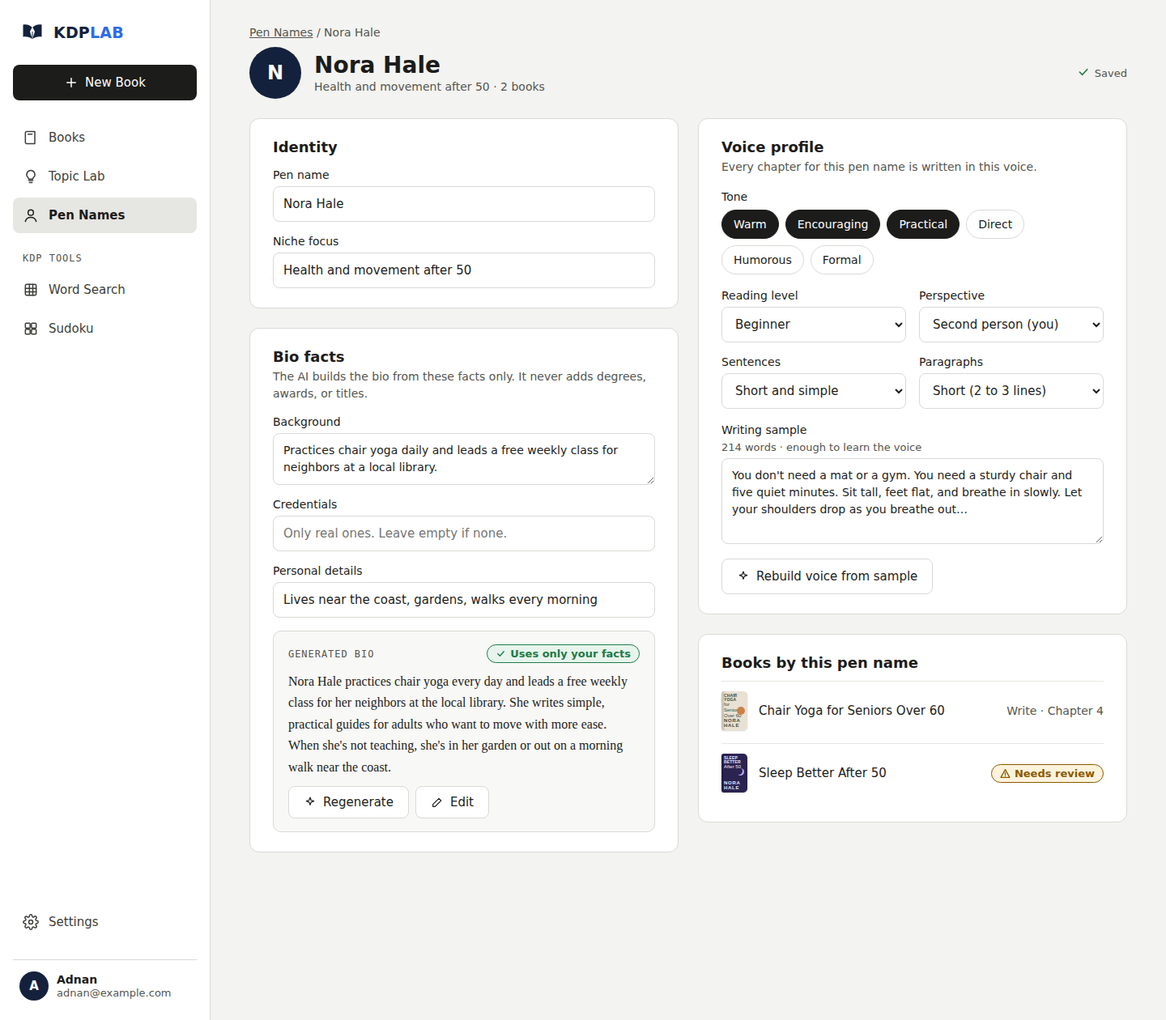
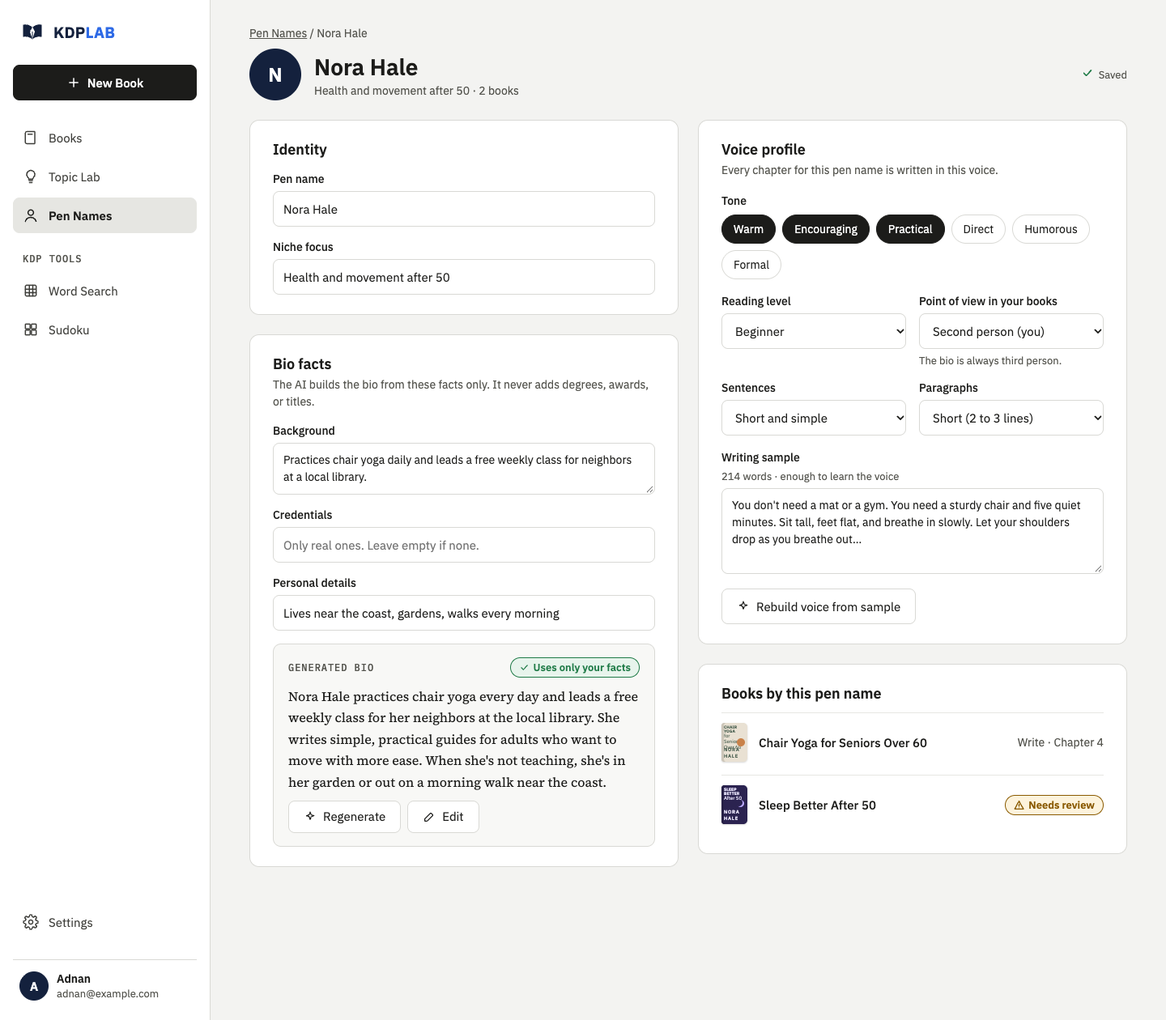
E12 Part 2: pen name point of view label, "ends mid-sentence" in Checks and Export
H2: the voice field is "Point of view in your books" with the help line
"The bio is always third person." under the select (aria-describedby);
design screen 12 has the same text (PNG shot again with the design fonts).
M9: the Checks tab gets an "ending" row (warning, counted, Show selects the
cut piece) from kdpTextChecks.ending(), the same rule as the server's
endsMidSentence. The Export dialog lists the sections in the file that end
mid-sentence as a warning like Needs review: it never blocks, needs no tick.
Tests: helpers 135; browser write 677 (+6), export 72 (+9, new t-cut),
new pen suite 9; every other suite unchanged and green.

diff --git a/design/screens/12-pen-name-detail.html b/design/screens/12-pen-name-detail.html
@@ -43,7 +43,7 @@ a{color:#1C1C1A}a:hover{color:#000000}
 <div style="display: flex; flex-direction: column; gap: 24px">
 <section style="background: #FFFFFF; border: 1px solid #D9D9D5; border-radius: 12px; padding: 24px 28px; display: flex; flex-direction: column; gap: 18px"><div style="display: flex; flex-direction: column; gap: 4px"><h2 style="margin: 0; font-size: 18px; font-weight: 600">Voice profile</h2><p style="margin: 0; font-size: 14px; line-height: 1.5; color: #55554F">Every chapter for this pen name is written in this voice.</p></div>
 <div style="display: flex; flex-direction: column; gap: 8px"><span style="font-size: 14px; font-weight: 500">Tone</span><div style="display: flex; flex-wrap: wrap; gap: 8px"><button aria-pressed="true" style="height: 36px; padding: 0 14px; border-radius: 999px; font-family: inherit; font-size: 14px; background: #1C1C1A; color: #FFFFFF; border: 1px solid #1C1C1A">Warm</button><button aria-pressed="true" style="height: 36px; padding: 0 14px; border-radius: 999px; font-family: inherit; font-size: 14px; background: #1C1C1A; color: #FFFFFF; border: 1px solid #1C1C1A">Encouraging</button><button aria-pressed="true" style="height: 36px; padding: 0 14px; border-radius: 999px; font-family: inherit; font-size: 14px; background: #1C1C1A; color: #FFFFFF; border: 1px solid #1C1C1A">Practical</button><button aria-pressed="false" style="height: 36px; padding: 0 14px; border-radius: 999px; font-family: inherit; font-size: 14px; background: #FFFFFF; color: #1C1C1A; border: 1px solid #D9D9D5">Direct</button><button aria-pressed="false" style="height: 36px; padding: 0 14px; border-radius: 999px; font-family: inherit; font-size: 14px; background: #FFFFFF; color: #1C1C1A; border: 1px solid #D9D9D5">Humorous</button><button aria-pressed="false" style="height: 36px; padding: 0 14px; border-radius: 999px; font-family: inherit; font-size: 14px; background: #FFFFFF; color: #1C1C1A; border: 1px solid #D9D9D5">Formal</button></div></div>
-<div style="display: grid; grid-template-columns: repeat(2, minmax(0, 1fr)); gap: 16px"><label style="display: flex; flex-direction: column; gap: 6px; font-size: 14px; font-weight: 500">Reading level<select style="height: 44px; box-sizing: border-box; padding: 0 12px; border: 1px solid #D9D9D5; border-radius: 8px; font-family: inherit; font-size: 15px; background: #FFFFFF; color: #1C1C1A; width: 100%"><option>Beginner</option><option>General</option><option>Advanced</option></select></label><label style="display: flex; flex-direction: column; gap: 6px; font-size: 14px; font-weight: 500">Perspective<select style="height: 44px; box-sizing: border-box; padding: 0 12px; border: 1px solid #D9D9D5; border-radius: 8px; font-family: inherit; font-size: 15px; background: #FFFFFF; color: #1C1C1A; width: 100%"><option>Second person (you)</option><option>First person (I)</option><option>Third person</option></select></label><label style="display: flex; flex-direction: column; gap: 6px; font-size: 14px; font-weight: 500">Sentences<select style="height: 44px; box-sizing: border-box; padding: 0 12px; border: 1px solid #D9D9D5; border-radius: 8px; font-family: inherit; font-size: 15px; background: #FFFFFF; color: #1C1C1A; width: 100%"><option>Short and simple</option><option>Mixed</option><option>Long and detailed</option></select></label><label style="display: flex; flex-direction: column; gap: 6px; font-size: 14px; font-weight: 500">Paragraphs<select style="height: 44px; box-sizing: border-box; padding: 0 12px; border: 1px solid #D9D9D5; border-radius: 8px; font-family: inherit; font-size: 15px; background: #FFFFFF; color: #1C1C1A; width: 100%"><option>Short (2 to 3 lines)</option><option>Medium</option></select></label></div>
+<div style="display: grid; grid-template-columns: repeat(2, minmax(0, 1fr)); gap: 16px"><label style="display: flex; flex-direction: column; gap: 6px; font-size: 14px; font-weight: 500">Reading level<select style="height: 44px; box-sizing: border-box; padding: 0 12px; border: 1px solid #D9D9D5; border-radius: 8px; font-family: inherit; font-size: 15px; background: #FFFFFF; color: #1C1C1A; width: 100%"><option>Beginner</option><option>General</option><option>Advanced</option></select></label><label style="display: flex; flex-direction: column; gap: 6px; font-size: 14px; font-weight: 500">Point of view in your books<select style="height: 44px; box-sizing: border-box; padding: 0 12px; border: 1px solid #D9D9D5; border-radius: 8px; font-family: inherit; font-size: 15px; background: #FFFFFF; color: #1C1C1A; width: 100%"><option>Second person (you)</option><option>First person (I)</option><option>Third person</option></select><span style="font-size: 13px; font-weight: 400; color: #55554F">The bio is always third person.</span></label><label style="display: flex; flex-direction: column; gap: 6px; font-size: 14px; font-weight: 500">Sentences<select style="height: 44px; box-sizing: border-box; padding: 0 12px; border: 1px solid #D9D9D5; border-radius: 8px; font-family: inherit; font-size: 15px; background: #FFFFFF; color: #1C1C1A; width: 100%"><option>Short and simple</option><option>Mixed</option><option>Long and detailed</option></select></label><label style="display: flex; flex-direction: column; gap: 6px; font-size: 14px; font-weight: 500">Paragraphs<select style="height: 44px; box-sizing: border-box; padding: 0 12px; border: 1px solid #D9D9D5; border-radius: 8px; font-family: inherit; font-size: 15px; background: #FFFFFF; color: #1C1C1A; width: 100%"><option>Short (2 to 3 lines)</option><option>Medium</option></select></label></div>
 <label style="display: flex; flex-direction: column; gap: 6px; font-size: 14px; font-weight: 500">Writing sample<span style="font-size: 13px; font-weight: 400; color: #55554F">214 words · enough to learn the voice</span><textarea rows="4" style="box-sizing: border-box; padding: 10px 12px; border: 1px solid #D9D9D5; border-radius: 8px; font-family: inherit; font-size: 14px; line-height: 1.5; resize: vertical; color: #1C1C1A">You don't need a mat or a gym. You need a sturdy chair and five quiet minutes. Sit tall, feet flat, and breathe in slowly. Let your shoulders drop as you breathe out…</textarea></label>
 <button style="height: 44px; padding: 0 18px; display: inline-flex; align-items: center; justify-content: center; gap: 8px; border-radius: 8px; font-family: inherit; font-size: 15px; text-decoration: none; box-sizing: border-box; border: 1px solid #D9D9D5; background: #FFFFFF; color: #1C1C1A; align-self: flex-start"><svg width="16" height="16" viewBox="0 0 24 24" fill="none" stroke="currentColor" stroke-width="1.8" stroke-linecap="round" stroke-linejoin="round" aria-hidden="true"><path d="M12 3l1.8 5.2L19 10l-5.2 1.8L12 17l-1.8-5.2L5 10l5.2-1.8z"></path></svg>Rebuild voice from sample</button></section>
 <section style="background: #FFFFFF; border: 1px solid #D9D9D5; border-radius: 12px; padding: 24px 28px; display: flex; flex-direction: column; gap: 4px"><h2 style="margin: 0 0 8px; font-size: 18px; font-weight: 600">Books by this pen name</h2>

diff --git a/tests/browser/export/t-cut.js b/tests/browser/export/t-cut.js
@@ -1,0 +1,70 @@
+// E12 M9 (owner decision 4): the Export dialog's note for sections whose text
+// ends mid-sentence. A warning like "Needs review": it never blocks, needs no
+// tick, and the download still works. "Final only" leaves out a section that
+// is not in the file, and its note with it. Screenshots at 1440 and 900.
+// Run: tests/browser/run.sh export t-cut.js
+const test = async (page) => {
+  const out = globalThis.__log = [];
+  const ok = (name, cond, got) => E11.check(out, name, !!cond, got);
+  const T = async (sel) => (await page.locator(sel).first().innerText()).replace(/\s+/g, ' ').trim();
+  const NOTE = '2.1 and 4.2 end mid-sentence. Finish or cut the last sentence before you publish.';
+  /** The ready book with 2.1 and 4.2 cut off, as a stopped Generate leaves them. */
+  async function open(width, cut = ['s21', 's42']) {
+    globalThis.__modes = {};
+    await setupE11(page);
+    const secs = globalThis.__store.exportData[E11.B1].chapters.flatMap((c) => c.sections);
+    for (const id of cut) secs.find((s) => s.id === id).version.content += ' Then roll them forward and';
+    await page.setViewportSize({ width, height: 900 });
+    await page.goto(`${E11.base}/app/dashboard.html`, { waitUntil: 'domcontentloaded' });
+    await page.locator(`[data-book-menu="${E11.B1}"]`).waitFor({ timeout: 10000 });
+    await page.locator(`[data-book-menu="${E11.B1}"]`).click();
+    await page.locator('#bookMenu [data-action="export"]').click();
+    await page.locator('.exp-dialog [data-exp-go]').waitFor({ timeout: 10000 });
+  }
+  const notes = () => page.locator('.exp-notes').innerText().then((t) => t.replace(/\s+/g, ' ').trim()).catch(() => '');
+  async function tallShot(name) {
+    const vp = page.viewportSize();
+    await page.setViewportSize({ width: vp.width, height: 2200 });
+    await page.waitForTimeout(150);
+    await page.locator('.exp-dialog').screenshot({ path: `${SHOTS}/${name}.png`, timeout: 10000 }).catch(() => out.push('shot timeout ' + name));
+    await page.setViewportSize(vp);
+  }
+
+  // Two sections cut: one warning row with both, the warning icon, no tick, Export on.
+  await open(1440);
+  ok('cut: the note names both sections', (await notes()).includes(NOTE), await notes());
+  ok('cut: the warning icon, like Needs review', await page.locator('.exp-notes .exp-crow', { hasText: 'mid-sentence' }).locator('.exp-warn svg').count() === 1);
+  ok('cut: no tick box (it never blocks)', await page.locator('.exp-dialog [data-exp-ack]').count() === 0);
+  ok('cut: Export is on, with the Ready line', !(await page.locator('.exp-dialog [data-exp-go]').isDisabled()) && (await T('.exp-dialog')).includes('Ready.'));
+  await tallShot('t-cut-dialog-1440');
+  // The download still works.
+  const dl = page.waitForEvent('download', { timeout: 15000 });
+  await page.locator('.exp-dialog [data-exp-go]').click();
+  const file = (await dl).suggestedFilename();
+  ok('cut: the .docx downloads', file === 'chair-yoga-for-seniors-over-60.docx', file);
+
+  // Final only: 4.2 is a Draft, so it is not in the file and not in the note.
+  await open(1440);
+  globalThis.__store.exportData[E11.B1].chapters.flatMap((c) => c.sections).find((s) => s.id === 's42').status = 'draft';
+  await page.locator('.exp-dialog [data-exp-close], .exp-dialog [data-exp-cancel]').first().click();
+  await page.locator(`[data-book-menu="${E11.B1}"]`).click();
+  await page.locator('#bookMenu [data-action="export"]').click();
+  await page.locator('.exp-dialog [data-exp-go]').waitFor({ timeout: 10000 });
+  await page.locator('#expInclude').selectOption('final');
+  await page.waitForTimeout(150);
+  ok('final only: only 2.1, in the singular', (await notes()).includes('2.1 ends mid-sentence. Finish or cut the last sentence before you publish.') && !(await notes()).includes('4.2'), await notes());
+
+  // One section cut, at 900: the singular; no sideways scroll.
+  await open(900, ['s21']);
+  ok('900: one section, "ends"', (await notes()).includes('2.1 ends mid-sentence.'), await notes());
+  ok('900: no sideways scroll', !(await page.evaluate(() => document.documentElement.scrollWidth > innerWidth)));
+  await tallShot('t-cut-dialog-900');
+  await open(900);
+  await tallShot('t-cut-dialog-two-900');
+
+  // None cut: no note.
+  await open(1440, []);
+  ok('none cut: no mid-sentence note', !(await notes()).includes('mid-sentence'), await notes());
+
+  return out.join('\n');
+};

diff --git a/tests/browser/pen/t-label.js b/tests/browser/pen/t-label.js
@@ -1,0 +1,52 @@
+// E12 H2 (owner): the voice field "Point of view in your books" with the help
+// line "The bio is always third person." under the select (the selects in a
+// row stay level), read by screen readers through aria-describedby. The
+// option labels and the saved values do not change. Screenshots at 1440 and 900.
+// Run: tests/browser/run.sh pen t-label.js
+const test = async (page) => {
+  const out = globalThis.__log = [];
+  const ok = (name, cond, got) => E11.check(out, name, !!cond, got);
+  const open = async (width) => {
+    await page.setViewportSize({ width, height: 900 });
+    await page.goto(`${E11.base}/app/pen-name.html?id=${E11.PA}`, { waitUntil: 'domcontentloaded' });
+    await page.locator('#v-perspective').waitFor({ timeout: 10000 });
+    await page.waitForTimeout(200);
+  };
+  await open(1440);
+  const f = await page.evaluate(() => {
+    const sel = document.getElementById('v-perspective');
+    const field = sel.closest('.field');
+    const hint = document.getElementById(sel.getAttribute('aria-describedby'));
+    return {
+      label: document.querySelector('label[for="v-perspective"]').textContent.trim(),
+      hint: hint ? hint.textContent.trim() : null,
+      order: [...field.children].map((e) => e.tagName.toLowerCase()),
+      options: [...sel.options].map((o) => [o.value, o.textContent.trim()]),
+      value: sel.value,
+      // The selects of one row stay level: Reading level and Point of view tops match.
+      level: Math.abs(sel.getBoundingClientRect().top - document.getElementById('v-reading_level').getBoundingClientRect().top),
+      others: ['reading_level', 'sentences', 'paragraphs'].map((k) => document.getElementById(`v-${k}`).getAttribute('aria-describedby'))
+    };
+  });
+  ok('the label: "Point of view in your books"', f.label === 'Point of view in your books', f.label);
+  ok('the help line, linked by aria-describedby', f.hint === 'The bio is always third person.', f.hint);
+  ok('the help line sits under the select', JSON.stringify(f.order) === JSON.stringify(['label', 'select', 'span']), f.order);
+  ok('the options and values are the same as before', JSON.stringify(f.options) === JSON.stringify([['', 'Not set'], ['second', 'Second person (you)'], ['first', 'First person (I)'], ['third', 'Third person']]), f.options);
+  ok('the saved value shows: Third person', f.value === 'third', f.value);
+  ok('the selects in the row stay level', f.level < 1, f.level);
+  ok('the other voice fields have no help line', f.others.every((x) => x === null), f.others);
+  await page.screenshot({ path: `${SHOTS}/t-label-1440.png`, fullPage: true, timeout: 10000 }).catch(() => out.push('shot timeout 1440'));
+  // The owner's live-check step: set Second person (you); the autosave sends the same voice key.
+  await page.locator('#v-perspective').selectOption('second');
+  await page.waitForTimeout(1500);   // the autosave's debounce, then the PATCH
+  const patches = globalThis.__store.penPatches;
+  const last = patches[patches.length - 1];
+  ok('the save sends voice.perspective "second"', !!last && last.voice && last.voice.perspective === 'second', patches);
+  await open(900);
+  ok('900: no sideways scroll', !(await page.evaluate(() => document.documentElement.scrollWidth > innerWidth)));
+  const wrap = await page.evaluate(() => document.querySelector('label[for="v-perspective"]').getBoundingClientRect().height);
+  out.push(`INFO 900: the label is ${Math.round(wrap)} px tall`);
+  await page.screenshot({ path: `${SHOTS}/t-label-900.png`, fullPage: true, timeout: 10000 }).catch(() => out.push('shot timeout 900'));
+  await page.locator('.pen-panel', { has: page.locator('#v-perspective') }).screenshot({ path: `${SHOTS}/t-label-900-voice.png`, timeout: 10000 }).catch(() => out.push('shot timeout 900 voice'));
+  return out.join('\n');
+};

diff --git a/tests/browser/write/t-checks.js b/tests/browser/write/t-checks.js
@@ -8,7 +8,7 @@
 // "Verify: no source" badge on a message (G3 P4), a lost connection (G3 P8),
 // errors and limits, every locked reason, under 50 and over 6,000 words,
 // Research numbers, open marks, the Needs review button, a load error, and
-// Final with warnings. Screenshots at 1440 and 900 px.
+// Final with warnings, and text that ends mid-sentence (E12 M9). Screenshots at 1440 and 900 px.
 const test = async page => {
   const log = globalThis.__log = [];
   const ok = (cond, msg) => log.push(`${cond ? 'PASS' : 'FAIL'} ${msg}`);
@@ -417,6 +417,22 @@ const test = async page => {
   await page.click('[data-chk-reload]');
   await page.waitForSelector('[data-chk-fold="minor"]', { timeout: 5000 });
   ok(true, 'Try again loads the saved check');
+
+  // 16. E12 M9: text that ends mid-sentence (a stopped Generate kept as Final): a warning row,
+  // counted in the tab, Show selects the cut piece; a full stop clears it.
+  st.addVersion(st.s51, 'Breathe out slowly and let your shoulders drop. If your body stays tight, be patient with it. Stored tension needs gentle messages of saf', 'manual');
+  await open(W1, st.s51);
+  await checksTab();
+  ok((await rowText('ending')) === 'The section ends mid-sentence. Finish the last sentence or cut it. Show', `ending row: "${await rowText('ending')}"`);
+  ok(await page.$eval('[data-chk-row="ending"] .wr-chk-ico', (i) => i.classList.contains('is-warn')), 'ending: the warning icon');
+  ok((await tabLabel()) === 'Checks 1', `ending: counted in the tab: "${await tabLabel()}"`);
+  await page.click('[data-chk-row="ending"] [data-chk-show]');
+  ok((await selected()) === 'Stored tension needs gentle messages of saf', `Show selects the cut piece: "${await selected()}"`);
+  ok(await shots('ending') === false, 'ending: no sideways scroll at 900 px');
+  st.addVersion(st.s51, 'Breathe out slowly and let your shoulders drop. If your body stays tight, be patient with it. Stored tension needs gentle messages of safety.', 'manual');
+  await open(W1, st.s51);
+  await checksTab();
+  ok(!(await has('[data-chk-row="ending"]')) && (await tabLabel()) === 'Checks', `a full stop: no ending row, no count: "${await tabLabel()}"`);
 
   return log.join('\n');
 };

diff --git a/tests/text-checks.test.js b/tests/text-checks.test.js
@@ -141,7 +141,7 @@ Deno.test("same opener: 3 in a row in paragraphs; a heading or a list resets", (
 });
 
 Deno.test("words vs target: under 80% and over 120% only; info, never counted", () => {
-  const w = (n) => Array.from({ length: n }, (_, i) => `word${i}`).join(" ");
+  const w = (n) => Array.from({ length: n }, (_, i) => `word${i}`).join(" ") + ".";   // a full stop: no "ends mid-sentence" row (E12 M9)
   const at = (n) => T.check(w(n), { known: "", target: 100 }).rows.filter((x) => x.code === "words");
   assertEquals(at(79).map((x) => [x.kind, x.text, x.sub]), [["info", "79 of 100 words", "Under 80% of the target."]]);
   assertEquals(at(80), []);
@@ -177,6 +177,21 @@ const ENDINGS = [
   "(see below)", "## Heading", "- an item with no period", "1. an item", "Text.\n\n", "", "Para.\n\nmessages of saf",
   "One.\n\n[Verify: no source]", "That is real progress. In the next", "Para one.\n\nAlso done. Then half",
 ];
+
+Deno.test("ending row (E12 M9): a warning with Show on the cut piece, counted; none when the text ends complete", () => {
+  const md = "## Rest\n\nIf your body stays tight, be patient with it. Stored tension needs gentle messages of saf";
+  const out = T.check(md, {});
+  const row = out.rows.find((r) => r.code === "ending");
+  assertEquals([row.kind, row.text, row.sub], ["warn", "The section ends mid-sentence.", "Finish the last sentence or cut it."]);
+  assertEquals(md.slice(row.ranges[0].start, row.ranges[0].end), "Stored tension needs gentle messages of saf");
+  assertEquals(row.sents, []);
+  assertEquals(out.warnings, 1);
+  assertEquals(T.check("## Rest\n\nBe patient with it.", {}).rows.some((r) => r.code === "ending"), false);
+  assertEquals(T.check("- Breathe in\n- Breathe out", {}).rows.some((r) => r.code === "ending"), false);
+  // The order: open marks, numbers, then the ending, then repeats.
+  const both = T.check("Studies show 40% sit all day." + M + " Then sit and", {});
+  assertEquals(both.rows.map((r) => r.code), ["marks", "ending"]);
+});
 
 Deno.test("ending: the same answer as the server's endsMidSentence, and the cut piece completeEnd removes", () => {
   for (const md of ENDINGS) {

diff --git a/tests/browser/pen/mock.js b/tests/browser/pen/mock.js
@@ -1,0 +1,29 @@
+// shared: e11
+// Pen name detail (E12 H2): the shared E11 mock, plus one pen name with its
+// facts and voice, read by id and saved by the page's autosave.
+const PEN = {
+  id: E11.PA, name: 'Elena Vance', niche: 'Somatic self-regulation for women', bio_text: '', updated_at: '2026-10-20T10:00:00+00:00', books: [],
+  bio_facts: { background: 'Wellness practitioner. Over a decade of community work with women.', credentials: '', personal: 'Enjoys yoga and nature walks.' },
+  voice: { tones: ['warm', 'practical'], reading_level: 'general', perspective: 'third', sentences: 'short', paragraphs: 'medium', sample: '' }
+};
+const setup = async (page) => {
+  await setupE11(page);
+  globalThis.__store.pen = JSON.parse(JSON.stringify(PEN));
+  globalThis.__store.penPatches = [];
+  const cors = { 'access-control-allow-origin': '*', 'access-control-expose-headers': 'content-range' };
+  // Registered after the shared mock, so it answers first; anything else falls back to it.
+  await page.context().route('https://hmtxnbgfzwqawfulwwrg.supabase.co/rest/v1/pen_names**', async (r) => {
+    const req = r.request();
+    if (!/[?&]id=eq\./.test(req.url())) return r.fallback();
+    const pen = globalThis.__store.pen;
+    const json = (body) => r.fulfill({ status: 200, contentType: 'application/json', headers: cors, body: JSON.stringify(body) });
+    if (req.method() === 'GET') return json(/vnd\.pgrst\.object/.test(req.headers()['accept'] || '') ? pen : [pen]);
+    if (req.method() === 'PATCH') {
+      const patch = JSON.parse(req.postData() || '{}');
+      globalThis.__store.penPatches.push(patch);
+      Object.assign(pen, patch, { updated_at: new Date().toISOString() });
+      return json([{ id: pen.id, name: pen.name, updated_at: pen.updated_at }]);
+    }
+    return r.fallback();
+  });
+};

diff --git a/js/text-checks.js b/js/text-checks.js
@@ -9,6 +9,7 @@
      rows, in this order (every offset is in md, so "Show" can select it):
        marks    open " [Verify: no source]" marks: one row, each sentence listed
        number   claim numbers with no source and no mark (the server's rule)
+       ending   the text ends mid-sentence (E12 M9; "Show" selects the cut piece)
        repeat   phrases of 3 to 6 words used 3 or more times (at most 5 rows)
        opener   3 or more sentences in a row that start with the same word
        words    under 80% or over 120% of the section's word target
@@ -278,7 +279,7 @@
     return rows;
   }
 
-  /* ── All five ── */
+  /* ── All six ── */
 
   function check(md, opts = {}) {
     const text = String(md || '');
@@ -322,10 +323,17 @@
       });
     }
 
-    // 3. Repeated phrases. 4. Same opener.
+    // 3. Ends mid-sentence (E12 M9): a stopped Generate, or a cut by hand.
+    const cut = ending(text);
+    if (cut) {
+      rows.push({ code: 'ending', kind: 'warn', text: 'The section ends mid-sentence.', sub: 'Finish the last sentence or cut it.',
+        ranges: [{ start: cut.start, end: cut.end }], sents: [] });
+    }
+
+    // 4. Repeated phrases. 5. Same opener.
     rows.push(...repeats(text, lines), ...openers(text, lines));
 
-    // 5. Words vs the target (advice, never counted).
+    // 6. Words vs the target (advice, never counted).
     const target = Number(opts.target) || 0;
     if (target > 0) {
       const n = root.kdpWords.count(text);

diff --git a/tests/export-rules.test.js b/tests/export-rules.test.js
@@ -102,6 +102,20 @@ Deno.test("model: Verify marks and numbers with no source", () => {
   assertEquals(m.openMarks, 3);
 });
 
+Deno.test("model: sections that end mid-sentence (E12 M9), in the file only, a note that never blocks", () => {
+  assertEquals(R.model(BOOK, { include: "all", format: "docx" }).cut, []);
+  const cut = structuredClone(BOOK);
+  cut.chapters[1].sections[2].version.content = "Rest well. Then lie down and let the";   // 1.3, partial and cut
+  cut.chapters[3].sections[0].version.content = "Hold the chair. Then do this:";           // 3.1, a colon is not an end
+  cut.chapters[4].sections[0].version.content = "The end. [Verify: no source]";            // a mark after a full sentence is complete
+  cut.chapters[2].sections[0].version = v("v21", "Twist and");                              // 2.1 is Draft, still in the file
+  const m = R.model(cut, { include: "all", format: "docx" });
+  assertEquals(m.cut.map((x) => x.label), ["1.3 Rest", "2.1 Twist one", "3.1 With support"]);
+  assertEquals(m.partial.map((x) => x.label), ["1.3 Rest"]);   // the partial note stays
+  // Final only: the cut sections that are not Final are not in the file, so no note.
+  assertEquals(R.model(cut, { include: "final", format: "docx" }).cut, []);
+});
+
 Deno.test("model: Final only leaves out the rest, and chapters with no Final section", () => {
   const m = R.model(BOOK, { include: "final", format: "docx" });
   assertEquals(R.versionIds(m), ["vi", "v11", "vc"]);

diff --git a/js/pen-name.js b/js/pen-name.js
@@ -59,8 +59,10 @@
 
   const options = (key) => `<option value="">Not set</option>${P.CHOICES[key].map(([k, l]) => `<option value="${k}">${l}</option>`).join('')}`;
 
-  function selectField(key, text) {
-    return `<div class="field"><label for="v-${key}">${text}</label><select class="select select-block" id="v-${key}" data-choice="${key}">${options(key)}</select></div>`;
+  /** A voice choice. An optional help line goes under the select, so the selects in a row stay level. */
+  function selectField(key, text, hint) {
+    const help = hint ? `<span class="field-hint" id="v-${key}-hint">${hint}</span>` : '';
+    return `<div class="field"><label for="v-${key}">${text}</label><select class="select select-block" id="v-${key}" data-choice="${key}"${hint ? ` aria-describedby="v-${key}-hint"` : ''}>${options(key)}</select>${help}</div>`;
   }
 
   /** A visible but disabled AI action, with its reason as visible text. */
@@ -154,7 +156,7 @@
             </div>
             <div class="field-pair">
               ${selectField('reading_level', 'Reading level')}
-              ${selectField('perspective', 'Perspective')}
+              ${selectField('perspective', 'Point of view in your books', 'The bio is always third person.')}
               ${selectField('sentences', 'Sentences')}
               ${selectField('paragraphs', 'Paragraphs')}
             </div>

diff --git a/js/export-dialog.js b/js/export-dialog.js
@@ -242,6 +242,8 @@
     }
     if (m.noText.length) out.push(row(IC.info, `${plural(m.noText.length, 'section has', 'sections have')} no text: ${esc(listWords(m.noText.map(shortLabel)))}. ${m.noText.length === 1 ? 'It is' : 'They are'} left out.`));
     if (m.needsReview.length) out.push(row(`<span class="exp-warn">${ICON.warn(16)}</span>`, `Needs review: ${esc(listWords(m.needsReview.map((x) => x.chapter ? x.label : shortLabel(x))))}. The positioning changed after it was written.`));
+    // E12 M9: a warning like Needs review; it never blocks and needs no tick.
+    if (m.cut.length) out.push(row(`<span class="exp-warn">${ICON.warn(16)}</span>`, `${esc(listWords(m.cut.map(shortLabel)))} ${m.cut.length === 1 ? 'ends' : 'end'} mid-sentence. Finish or cut the last sentence before you publish.`));
     if (m.unsaved.length === 1) out.push(row(IC.info, `${esc(shortLabel(m.unsaved[0]))} has unsaved edits. The file uses v${m.unsaved[0].versionNo}, its last saved version.`));
     else if (m.unsaved.length > 1) out.push(row(IC.info, `${esc(listWords(m.unsaved.map(shortLabel)))} have unsaved edits. The file uses their last saved versions.`));
     if (m.partial.length) out.push(row(IC.info, `${esc(listWords(m.partial.map(shortLabel)))} ${m.partial.length === 1 ? 'ends' : 'end'} where a Generate was stopped (partial text).`));

diff --git a/js/export-rules.js b/js/export-rules.js
@@ -119,7 +119,7 @@
       notFinal: [],     // with text but not Final: left out under "Final only"
       noText: [],       // no saved text: always left out
       droppedChapters: [],
-      needsReview: [], unsaved: [], partial: [], running: [],
+      needsReview: [], unsaved: [], partial: [], running: [], cut: [],
       marks: { total: 0, numbers: 0, sections: [] },
       ai: { draft: 0, edits: 0, own: 0, words: { draft: 0, edits: 0, own: 0 } },
       words: 0
@@ -147,6 +147,8 @@
         if (s.needs_review) out.needsReview.push(item);
         if (s.unsaved) out.unsaved.push({ ...item, versionNo: v.version_no });
         if (v.partial) out.partial.push(item);
+        // E12 M9: text that ends mid-sentence (a warning, never blocking; the Checks tab's rule).
+        if (root.kdpTextChecks && root.kdpTextChecks.ending(v.content)) out.cut.push(item);
         if (fresh(s.run, data.now)) out.running.push({ ...item, versionNo: v.version_no });
         // Marks.
         const m = markCount(v.content), nb = numberCount(v.content, known);

diff --git a/tests/README.md b/tests/README.md
@@ -75,7 +75,8 @@ deno test --allow-read tests/user-name.test.js
 - E11 (designs 24b and 25b): `export-rules.test.js` is the Export dialog's
   include rule (the cases in `tests/fixtures/export-include.json`, shared with
   the SQL test `t_export_include`), counts, notes, run freshness, the AI note,
-  Verify marks (the old v15 places too), the copyright text and the file name.
+  Verify marks (the old v15 places too), the sections that end mid-sentence
+  (E12 M9, a note only), the copyright text and the file name.
   `export-build.test.js` checks the exact Markdown and opens a real .docx
   (docx 9.5.1 from `tests/browser/.cache/`, its SRI checked; unzipped by
   `tests/lib/unzip.js`): page sizes, page numbers only in the body and from 1,
@@ -117,7 +118,9 @@ deno test --allow-read tests/user-name.test.js
   E10.4): the number rule gives the same text as the server's
   `markUnsourced` (the E10.2 marker rows, read as data, and more), the
   known text is the server's `writeKnown`, the numbers row holds exactly the
-  sentences that rule marks; open marks, repeated phrases (3 to 6 words, 3+
+  sentences that rule marks; text that ends mid-sentence (E12 M9: the row,
+  Show on the cut piece, and the same answer as the server's
+  `endsMidSentence` and `completeEnd`); open marks, repeated phrases (3 to 6 words, 3+
   times, the longest, never common words only), the same opener (paragraphs
   only; a heading or a list resets), words vs the target (under 80%, over
   120%, never counted), and under 30 ms on a 16,000-word section.
@@ -184,8 +187,10 @@ t-book-type, t-help-more, t-references), `research` (t-stale, t-missing, t-from,
 t-accept-all, t-missing, t-save-owner), `title` (t1, t-note, t-hyphen, t-missing),
 `delete` (t-dialog), `outline` (t1, t-struct, t-generate, t-check, t-approve, t-blank, t-running),
 `write` (t1, t-draft, t-versions, t-idle, t-fixes, t-empty, t-generate, t-gen-ends, t-improve, t-checks,
-t-timing, t-selection, t-fix, t-queue), and for E11 `settings` (t-settings, t-footer), `export`
-(t-export) and `books` (t-badge). The three E11 suites share `tests/browser/shared/e11.js`
+t-timing, t-selection, t-fix, t-queue), for E11 `settings` (t-settings, t-footer), `export`
+(t-export, and t-cut for E12 M9: the "ends mid-sentence" note never blocks) and `books` (t-badge),
+and for E12 `pen` (t-label: the "Point of view in your books" field and its help line).
+The E11 suites and `pen` share `tests/browser/shared/e11.js`
 (a suite's `mock.js` that starts with `// shared: e11` gets it first); it serves the Books page,
 Settings, the book page and the Export dialog, routes docx 9.5.1 to the cache and keeps every
 downloaded Blob in `window.__blobs`. `t-export` covers 24b states 1 to 9 and the header entry,
